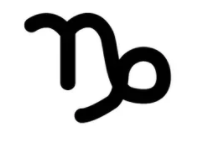
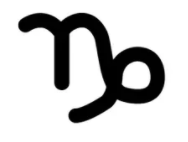
Make all images the same size thru css styling

diff --git a/index.html b/index.html
@@ -60,7 +60,6 @@
                         <a href="signs/ariesZ.html">
                             <h4>Aries</h4>
                         </a>
-                        <p>Sep 23 - Oct 22</p>
                 <p>Mar 21 - Apr 19th</p>
                 </div>
                 <div class="well col-xs-12 col-sm-4 col-md-4 col-lg-4">
@@ -94,7 +93,7 @@
                         <p>Jun 21 - Jul 22</p>
                     </div>
                     <div class="well col-xs-12 col-sm-4 col-md-4 col-lg-4">
-                        <img src="/images/leoZ.png" alt="">
+                        <img class="zicon"src="/images/leoZ.png" alt="">
                         <a href="signs/leo.html"><h4>Leo</h4></a>
                         <p>Jul 23 - Aug 22</p>
                     </div>
@@ -135,12 +134,12 @@
             
                 <div class="row">
                     <div class="well col-xs-12 col-sm-4 col-md-4 col-lg-4">
-                        <img src="/images/capricornZ.png" alt="">
+                        <img class="zicon" src="/images/capricornZ.png" alt="">
                         <a href="signs/capricorn.html"><h4>Capricorn</h4></a>
                         <p>Dec 22 - Jan 19</p>
                     </div>
                     <div class="well col-xs-12 col-sm-4 col-md-4 col-lg-4">
-                        <img src="/images/aquariusZ.png" alt="">
+                        <img class ="zicon" src="/images/aquariusZ.png" alt="">
                         <a href="signs/aquarius.html"><h4>Aquarius</h4></a>
                         <p>Jan 20 - Feb 18</p>
                     </div>

diff --git a/css/style.css b/css/style.css
@@ -24,3 +24,8 @@ img{
     display: flex;
     align-items: center;
 }
+.zicon {
+    width: 100px;
+    height: 90px;
+    /*Scale down will take the necessary specified space that is 100px x 100px without stretching the image*/
+}
